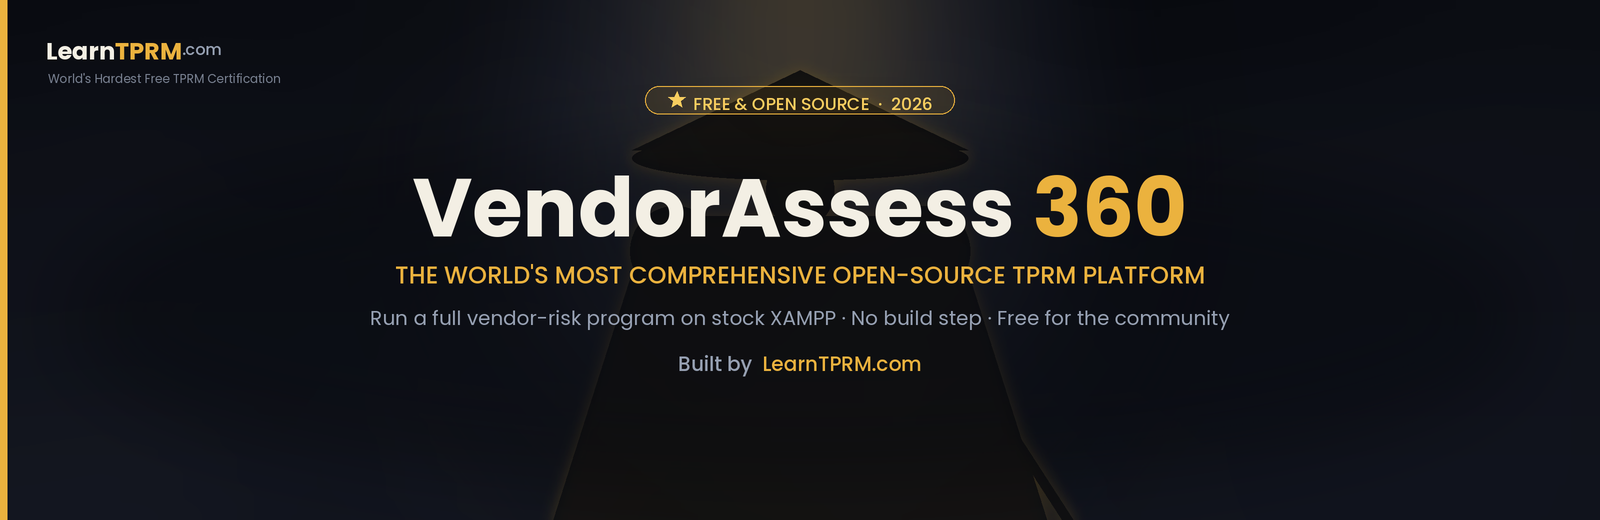
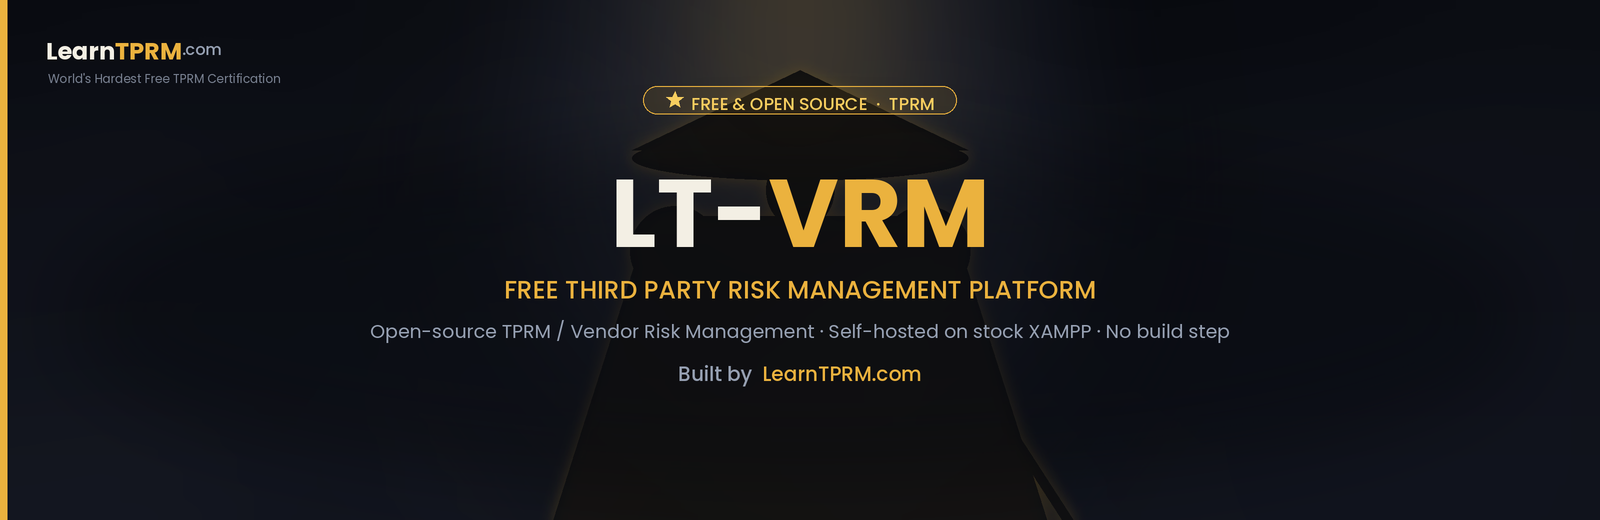
rename: VendorAssess 360 → LT-VRM (Free Third Party Risk Management Platform)
Trademark-safe rebrand. Display name → LT-VRM, slug/folder/url → lt-vrm,
DB default → lt_vrm, User-Agent/EHLO → lt-vrm/LT-VRM. New banner image.

Changed region(s): [[0.2188, 0.3385, 0.7812, 0.7385], [0.4062, 0.1846, 0.5938, 0.2154]]

diff --git a/assets/css/app.css b/assets/css/app.css
@@ -1,5 +1,5 @@
 /* ============================================================
-   VendorAssess 360 — Design System
+   LT-VRM — Design System
    Matched to learntprm.com: deep navy-black, gold accents,
    Poppins headings + Inter body, soft-bordered cards.
    To re-theme, edit the variables below — nothing else.

diff --git a/assets/js/app.js b/assets/js/app.js
@@ -1,4 +1,4 @@
-/* VendorAssess 360 — UI behaviours (vanilla JS, no dependencies) */
+/* LT-VRM — UI behaviours (vanilla JS, no dependencies) */
 (function () {
   'use strict';
 

diff --git a/install/index.php b/install/index.php
@@ -1,6 +1,6 @@
 <?php
 /**
- * VendorAssess 360 — Guided Installer
+ * LT-VRM — Guided Installer
  * Step 1: environment checks → Step 2: database + admin → Step 3: done.
  * Locks itself after a successful install (config.php exists).
  */
@@ -37,7 +37,7 @@ $errors = [];
 if (!$installed && $_SERVER['REQUEST_METHOD'] === 'POST' && $allOk) {
     $dbHost = trim((string)($_POST['db_host'] ?? '127.0.0.1'));
     $dbPort = (int)($_POST['db_port'] ?? 3306);
-    $dbName = trim((string)($_POST['db_name'] ?? 'vendorassess360'));
+    $dbName = trim((string)($_POST['db_name'] ?? 'lt_vrm'));
     $dbUser = trim((string)($_POST['db_user'] ?? 'root'));
     $dbPass = (string)($_POST['db_pass'] ?? '');
     $admName  = trim((string)($_POST['admin_name'] ?? ''));
@@ -107,7 +107,7 @@ function va_guess_url(): string {
 <html lang="en">
 <head>
 <meta charset="utf-8"><meta name="viewport" content="width=device-width, initial-scale=1">
-<title>Install · VendorAssess 360</title>
+<title>Install · LT-VRM</title>
 <link href="https://fonts.googleapis.com/css2?family=Poppins:wght@600;700&family=Inter:wght@400;500&display=swap" rel="stylesheet">
 <link rel="stylesheet" href="../assets/css/app.css">
 </head>
@@ -153,7 +153,7 @@ function va_guess_url(): string {
       <input type="text" readonly onclick="this.select()" style="font-family:monospace"
              value="sudo chmod 777 &quot;<?= h($root) ?>&quot; &quot;<?= h($root) ?>/uploads&quot;">
       <p class="small" style="margin-top:.6rem"><strong>Windows (XAMPP)</strong> — usually already writable.
-        If not: right-click the <code>vendorassess360</code> folder → Properties → Security → Edit →
+        If not: right-click the <code>lt-vrm</code> folder → Properties → Security → Edit →
         select <em>Users</em> → tick <em>Full control</em> → OK.</p>
       <p class="help">This only loosens two folders on your local server so Apache can create
         <code>config.php</code> and store uploads — standard practice for XAMPP installs.</p>
@@ -180,7 +180,7 @@ function va_guess_url(): string {
       </div>
       <div class="form-row">
         <div><label>Database name <span class="muted">(created if missing)</span></label>
-          <input type="text" name="db_name" value="<?= h($_POST['db_name'] ?? 'vendorassess360') ?>"></div>
+          <input type="text" name="db_name" value="<?= h($_POST['db_name'] ?? 'lt_vrm') ?>"></div>
         <div><label>User</label><input type="text" name="db_user" value="<?= h($_POST['db_user'] ?? 'root') ?>"></div>
       </div>
       <label>Password <span class="muted">(blank on default XAMPP)</span></label>
@@ -198,7 +198,7 @@ function va_guess_url(): string {
         <input type="checkbox" id="seed" name="seed_demo" value="1" checked>
         <label for="seed">Load the demo dataset (52 realistic vendors with documents, contracts, assessments &amp; scores) — recommended for first impressions</label>
       </div>
-      <button class="btn btn-gold" style="margin-top:1.2rem">Install VendorAssess 360 →</button>
+      <button class="btn btn-gold" style="margin-top:1.2rem">Install LT-VRM →</button>
     </form>
   </div>
 
@@ -207,7 +207,7 @@ function va_guess_url(): string {
     <div style="font-size:2.6rem">🏯</div>
     <h2>Installation complete</h2>
     <?php if ($installed): ?>
-      <p class="muted">VendorAssess 360 is ready. The installer is now locked — to reinstall, delete <code>config.php</code> and the database.</p>
+      <p class="muted">LT-VRM is ready. The installer is now locked — to reinstall, delete <code>config.php</code> and the database.</p>
       <p style="margin-top:1.2rem"><a class="btn btn-gold" href="../index.php?p=login">Open the platform →</a></p>
     <?php else: ?>
       <p class="muted">Something is off — config.php was not found. <a href="index.php">Restart the installer</a>.</p>

diff --git a/app/helpers.php b/app/helpers.php
@@ -1,6 +1,6 @@
 <?php
 /**
- * VendorAssess 360 — Core helpers
+ * LT-VRM — Core helpers
  * Database, security (CSRF/escaping), auth/RBAC, settings, audit log,
  * flash messages, pagination, uploads, mail (raw SMTP, zero dependencies).
  */
@@ -337,11 +337,11 @@ function send_mail(string $to, string $subject, string $htmlBody): bool {
 
     try {
         $read();
-        if (!$say('EHLO vendorassess360', [250])) return false;
+        if (!$say('EHLO lt-vrm', [250])) return false;
         if ($sec === 'tls') {
             if (!$say('STARTTLS', [220])) return false;
             if (!stream_socket_enable_crypto($fp, true, STREAM_CRYPTO_METHOD_TLS_CLIENT)) return false;
-            if (!$say('EHLO vendorassess360', [250])) return false;
+            if (!$say('EHLO lt-vrm', [250])) return false;
         }
         if ($user !== '') {
             if (!$say('AUTH LOGIN', [334])) return false;
@@ -351,7 +351,7 @@ function send_mail(string $to, string $subject, string $htmlBody): bool {
         if (!$say('MAIL FROM:<' . $from . '>', [250])) return false;
         if (!$say('RCPT TO:<' . $to . '>', [250, 251])) return false;
         if (!$say('DATA', [354])) return false;
-        $headers = 'From: VendorAssess 360 <' . $from . ">\r\n"
+        $headers = 'From: LT-VRM <' . $from . ">\r\n"
                  . 'To: <' . $to . ">\r\n"
                  . 'Subject: =?UTF-8?B?' . base64_encode($subject) . "?=\r\n"
                  . "MIME-Version: 1.0\r\nContent-Type: text/html; charset=UTF-8\r\n\r\n";

diff --git a/config.sample.php b/config.sample.php
@@ -1,15 +1,15 @@
 <?php
 /**
- * VendorAssess 360 — Configuration (sample)
+ * LT-VRM — Configuration (sample)
  * The installer copies this to config.php with your values.
  * You normally never need to edit this by hand.
  */
 return [
     'db_host' => '127.0.0.1',
     'db_port' => 3306,
-    'db_name' => 'vendorassess360',
+    'db_name' => 'lt_vrm',
     'db_user' => 'root',
     'db_pass' => '',
-    'app_url' => 'http://localhost/vendorassess360', // no trailing slash
+    'app_url' => 'http://localhost/lt-vrm', // no trailing slash
     'debug'   => false,  // true shows detailed errors (development only)
 ];

diff --git a/app/bootstrap.php b/app/bootstrap.php
@@ -1,6 +1,6 @@
 <?php
 /**
- * VendorAssess 360 — Bootstrap
+ * LT-VRM — Bootstrap
  * Loads config, opens the session securely, registers a friendly error handler.
  */
 
@@ -35,7 +35,7 @@ date_default_timezone_set('UTC');
 
 /** Friendly fatal-error page (production). */
 set_exception_handler(function (Throwable $e) {
-    error_log('VendorAssess360: ' . $e->getMessage() . ' @ ' . $e->getFile() . ':' . $e->getLine());
+    error_log('LT-VRM: ' . $e->getMessage() . ' @ ' . $e->getFile() . ':' . $e->getLine());
     if (!empty($GLOBALS['VA_CONFIG']['debug'])) {
         http_response_code(500);
         echo '<pre style="padding:2rem;color:#c00">' . htmlspecialchars((string)$e) . '</pre>';

diff --git a/app/connectors.php b/app/connectors.php
@@ -1,6 +1,6 @@
 <?php
 /**
- * VendorAssess 360 — Intelligence Connectors
+ * LT-VRM — Intelligence Connectors
  *
  * Pattern: every scan tries LIVE sources first (when an API key / internet is
  * available) and falls back to clearly-labeled DEMO MODE data, so the platform
@@ -20,7 +20,7 @@ function net_available(): bool {
 
 function http_get_json(string $url, array $headers = []): ?array {
     $opts = ['http' => ['method' => 'GET', 'timeout' => 8,
-             'header' => implode("\r\n", array_merge(['User-Agent: VendorAssess360'], $headers)),
+             'header' => implode("\r\n", array_merge(['User-Agent: LT-VRM'], $headers)),
              'ignore_errors' => true]];
     $body = @file_get_contents($url, false, stream_context_create($opts));
     if ($body === false) return null;

diff --git a/pages/board_report.php b/pages/board_report.php
@@ -32,7 +32,7 @@ include __DIR__ . '/../partials/header.php';
 <div class="card" style="text-align:center">
   <h1 style="font-size:1.7rem">Third-Party Risk Management — Program Report</h1>
   <p class="muted"><?= e(setting('org_name', 'My Organization')) ?> · Generated <?= e(date('F j, Y')) ?> ·
-    Prepared with VendorAssess 360 by LearnTPRM.com</p>
+    Prepared with LT-VRM by LearnTPRM.com</p>
 </div>
 
 <div class="grid c4">
@@ -114,7 +114,7 @@ include __DIR__ . '/../partials/header.php';
     Bands: 0–399 Critical · 400–599 High · 600–749 Moderate · 750–899 Good · 900–1000 Excellent.
     Assessment results carry full credit for 12 months, then decay toward neutral by month 24 — stale
     due diligence does not vouch for a vendor. Statistics cover the active portfolio (terminated vendors excluded).</p>
-  <p class="muted small">Report produced by VendorAssess 360 — The World's Most Comprehensive Open-Source TPRM Platform,
+  <p class="muted small">Report produced by LT-VRM — The World's Most Comprehensive Open-Source TPRM Platform,
     developed by LearnTPRM.com.</p>
 </div>
 <?php include __DIR__ . '/../partials/footer.php';

diff --git a/pages/users.php b/pages/users.php
@@ -25,7 +25,7 @@ if ($_SERVER['REQUEST_METHOD'] === 'POST') {
             $uid = (int)db()->lastInsertId();
             audit('user_invited', 'user', $uid, "$email as $role");
             $link = url('accept_invite', ['token' => $token]);
-            $mailed = send_mail($email, 'You are invited to VendorAssess 360',
+            $mailed = send_mail($email, 'You are invited to LT-VRM',
                 '<p>Hello ' . e($name) . ',</p><p>You\'ve been invited to the TPRM platform as <strong>' . e($role) . '</strong>.</p>
                  <p><a href="' . e($link) . '">Click here to set your password and activate your account</a>.</p>');
             flash('success', 'Invitation created.' . ($mailed ? ' Email sent.' : ' SMTP not configured — share this link manually: ' . $link));
@@ -65,7 +65,7 @@ if ($_SERVER['REQUEST_METHOD'] === 'POST') {
             q('UPDATE users SET password_hash = ?, failed_logins = 0, locked_until = NULL WHERE id = ?',
               [password_hash($temp, PASSWORD_DEFAULT), $uid]);
             audit('user_password_reset', 'user', $uid, $u['email']);
-            $mailed = send_mail($u['email'], 'Your VendorAssess 360 password was reset',
+            $mailed = send_mail($u['email'], 'Your LT-VRM password was reset',
                 '<p>Your temporary password is: <strong>' . e($temp) . '</strong></p><p>Please sign in and change it.</p>');
             flash('success', 'Password reset for ' . $u['name'] . '.' .
                 ($mailed ? ' Emailed to them.' : ' Temporary password (share securely): ' . $temp));

diff --git a/partials/header.php b/partials/header.php
@@ -1,6 +1,6 @@
 <?php
 /** Shared layout header: <head>, sidebar nav, opening of main column. */
-$pageTitle = $GLOBALS['VA_PAGE_TITLE'] ?? 'VendorAssess 360';
+$pageTitle = $GLOBALS['VA_PAGE_TITLE'] ?? 'LT-VRM';
 $active    = $_GET['p'] ?? 'dashboard';
 $unreadAlerts = 0;
 if (is_logged_in()) {
@@ -12,7 +12,7 @@ if (is_logged_in()) {
 <head>
 <meta charset="utf-8">
 <meta name="viewport" content="width=device-width, initial-scale=1">
-<title><?= e($pageTitle) ?> · VendorAssess 360</title>
+<title><?= e($pageTitle) ?> · LT-VRM</title>
 <link rel="preconnect" href="https://fonts.googleapis.com">
 <link href="https://fonts.googleapis.com/css2?family=Poppins:wght@500;600;700&family=Inter:wght@400;500;600&display=swap" rel="stylesheet">
 <link rel="stylesheet" href="assets/css/app.css">

diff --git a/portal.php b/portal.php
@@ -1,6 +1,6 @@
 <?php
 /**
- * VendorAssess 360 — Vendor Portal (public, tokenized)
+ * LT-VRM — Vendor Portal (public, tokenized)
  * Vendors open this via the secure link — no account required.
  * They answer the questionnaire, attach evidence, and submit.
  * In clarification rounds only the flagged questions are editable.
@@ -12,7 +12,7 @@ $a = $token !== '' ? row('SELECT * FROM assessments WHERE token = ?', [$token]) 
 
 function portal_shell(string $title, string $body): void {
     echo '<!doctype html><html lang="en"><head><meta charset="utf-8">
-<meta name="viewport" content="width=device-width, initial-scale=1"><title>' . e($title) . ' · VendorAssess 360</title>
+<meta name="viewport" content="width=device-width, initial-scale=1"><title>' . e($title) . ' · LT-VRM</title>
 <link href="https://fonts.googleapis.com/css2?family=Poppins:wght@600;700&family=Inter:wght@400;500&display=swap" rel="stylesheet">
 <link rel="stylesheet" href="assets/css/app.css"></head><body>
 <div style="min-height:100vh;background:radial-gradient(ellipse at 50% -20%, rgba(238,192,92,.07), transparent 55%), var(--bg);padding:2rem 1rem">

diff --git a/app/hints.php b/app/hints.php
@@ -1,6 +1,6 @@
 <?php
 /**
- * VendorAssess 360 — In-product Guidance Engine
+ * LT-VRM — In-product Guidance Engine
  *
  * One registry powers three things:
  *   1. hint('key')        — small ⓘ icon, click to read "what is this & what can I do"